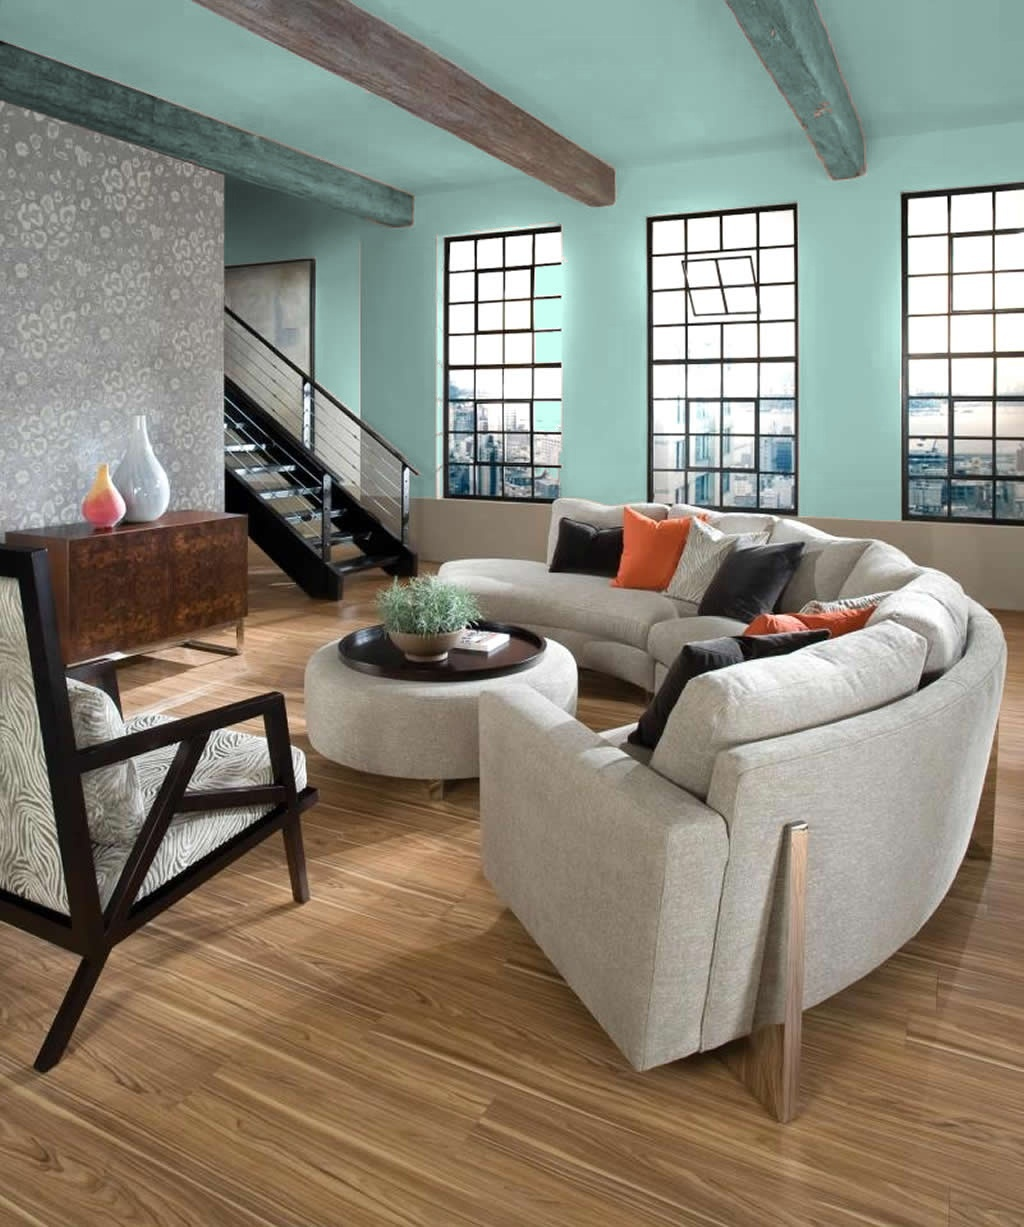
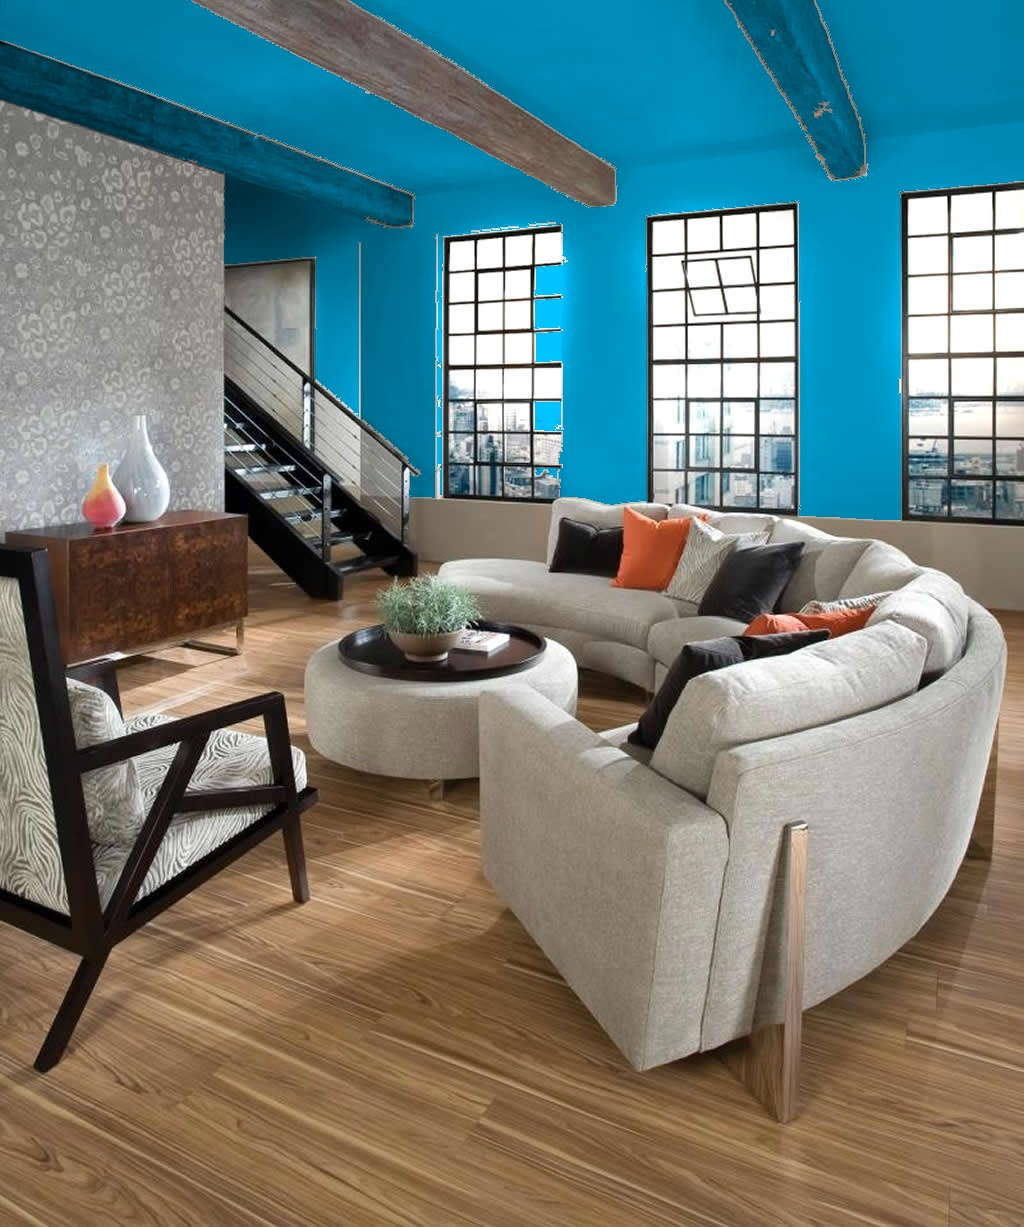
wall color change complete

Changed region(s): [[0.0, 0.0, 1.0, 0.4336]]

diff --git a/frontend/src/pages/UploadImage.jsx b/frontend/src/pages/UploadImage.jsx
@@ -3,7 +3,7 @@ import { storage } from '../firebase/firebase_config';
 import { ref, getDownloadURL, uploadBytesResumable } from "firebase/storage";
 import { SketchPicker, ChromePicker } from 'react-color'
 import './UploadImage.css'
-
+import image44 from "./image44.jpg"
 function UploadImage() {
     const [imgUrl, setImgUrl] = useState(null);
     const [progresspercent, setProgresspercent] = useState(0);
@@ -25,10 +25,9 @@ function UploadImage() {
             fetch('http://127.0.0.1:8000/predict', {
                 method: 'POST',
                 headers: {
-                    'Content-Type': 'application/json',
+                    'Content-Type': 'application/json; charset=UTF-8',
                     'Access-Control-Allow-Methods': 'POST',
-                    'Access-Control-Allow-Headers': 'Content-Type',
-                    "Access-Control-Allow-Origin" : 'http://127.0.0.1:8000/predict'
+                    // 'Access-Control-Allow-Headers': 'Content-Type',
                 },
                 body: JSON.stringify(
                     {
@@ -40,14 +39,26 @@ function UploadImage() {
             })
                 .then(response => response.json())
                 .then(data => {
-                    setPath(data.output)
-                    console.log('Output:', data.output);
+                    setPath(data.result)
+                    console.log('Output:', data.result);
                     setPath('../../../backend/uc_hack_20-master/uc_hack_20-master/public/edited/image44.jpg')
                 })
                 .catch(error => {
                     console.error('Error:', error);
                 });
         }
+
+        // axios.post('http://localhost:8000/predict', JSON.stringify(            {
+        //         color: color,
+        //         url: imgUrl
+        //     }))
+        //     .then(response => {
+        //         console.log('Output:', response.data.output);
+        //     })
+        //     .catch(error => {
+        //         console.error('Error:', error);
+        //     });
+
 
         console.log(color)
         console.log(imgUrl)
@@ -75,6 +86,7 @@ function UploadImage() {
             () => {
                 getDownloadURL(uploadTask.snapshot.ref).then((downloadURL) => {
                     setImgUrl(downloadURL)
+                    sendtoml()
                 });
             }
         );
@@ -107,7 +119,7 @@ function UploadImage() {
                     color={color}
                     onChange={(updatedColor) => {
                         setColor(updatedColor.hex)
-                        setTimeout(sendtoml, 3000)
+                        // setTimeout(sendtoml, 3000)
                         // sendtoml()
                     }}
                 />
@@ -129,11 +141,12 @@ function UploadImage() {
                 </div>
             }
             {
-                path?
-                <div className="processedimg">
-                    <img src={path} alt="Processed Image" />
-                </div>:
-                null
+                path ?
+                    <div className="processedimg">
+                        {console.log(path)}
+                        <img style={{height : '30vh', width : '100%' }} src={image44} alt="Processed Image" />
+                    </div> :
+                    null
             }
 
         </div>

diff --git a/frontend/src/components/Room.jsx b/frontend/src/components/Room.jsx
@@ -14,7 +14,7 @@ export default function Room(props) {
   const { nodes, materials } = useGLTF('/room-transformed.glb')
   return (
     <group {...props} dispose={null}>
-      <mesh geometry={nodes.Object_2.geometry} material={materials.lambert1} rotation={[-Math.PI / 2, 0, 0]} scale={0.05} />
+      <mesh geometry={nodes.Object_2.geometry} material={materials.lambert1} rotation={[-Math.PI / 2, 0, 0]} scale={0.05} color='white' />
     </group>
   )
 }

diff --git a/backend/uc_hack_20-master/uc_hack_20-master/flask_server.py b/backend/uc_hack_20-master/uc_hack_20-master/flask_server.py
@@ -4,18 +4,19 @@ from img_proc import changeColor
 
 app = Flask(__name__)
 CORS(app)
-
-@app.route('/', methods=['GET'])
-@cross_origin()
+cors = CORS(app, support_credentials= True)
+# @app.route('/', methods=['GET'])
+@app.route("/")
+@cross_origin(support_credentials= True)
 def index():
     return "Hello, World!"
 
 @app.route('/predict', methods=['POST'])
-@cross_origin()
+@cross_origin(support_credentials= True)
 def predict():
     # Get the request JSON data
     data = request.get_json()
-
+    print(data)
     # Extract the input parameters from the request data
     input_param1 = data['url']
     input_param2 = data['color']
@@ -33,11 +34,11 @@ def predict():
         return (red, green, blue)
     color = hex_to_rgb(input_param2)
     changeColor('image44.jpg',(300, 100), [color[0], color[1], color[2]], None, input_param1)
-    headers = {
-        'Access-Control-Allow-Origin': '*',
-        'Access-Control-Allow-Methods': 'POST',
-        'Access-Control-Allow-Headers': 'Content-Type',
-    }
+    # headers = {
+    #     'Access-Control-Allow-Origin': '*',
+    #     'Access-Control-Allow-Methods': 'POST',
+    #     'Access-Control-Allow-Headers': 'Content-Type',
+    # }
 
     # Create a JSON response with the output
     return jsonify({'result': 'success'})

diff --git a/backend/uc_hack_20-master/uc_hack_20-master/img_proc.py b/backend/uc_hack_20-master/uc_hack_20-master/img_proc.py
@@ -121,7 +121,8 @@ def mergeImages(img, colored_image, wall):
 
 def saveImage(img_name, img):
     img = cv2.cvtColor(img, cv2.COLOR_RGB2BGR)
-    cv2.imwrite( "./public/edited/" + img_name, img)
+    # cv2.imwrite( "./public/edited/" + img_name, img)
+    cv2.imwrite( "../../../frontend/src/pages/" + img_name, img)
 
 
 def showImages(original_img, colored_image, selected_wall, final_img):
